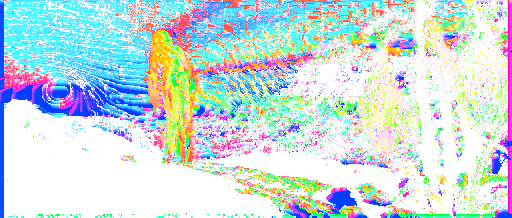
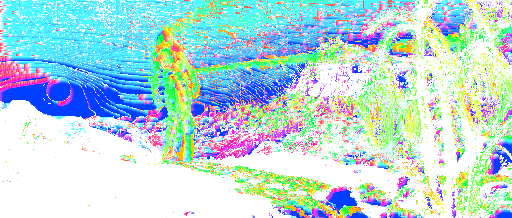
Better readme

diff --git a/README.md b/README.md
@@ -1,9 +1,15 @@
 # Tinybma
-An optical flowmap generator from motion vectors using block matching algorithms in c++
+*An optical flowmap generator from motion vectors using a Full Search Block Matching Algorithms (FSBMA) written in c++*
 
-Current implementation do not support sub pixel motions and is implemented using a Full Search Block Matching Algorithm (FSBMA).
+**Features:**
+- Motion compensation on the luma chanel **only** (input images are converted from full sRGB to YUV BT.601)
+- Two visualization mode for computed motion vectors:
+    - **HSV** mode where hue encodes orientation and value encodes normalized norm relative to the maximum displacement
+    - **UV** mode where the red and green channels encode horizontal and vertical displacement
+- Luma residue visualization
+- Parallel processing: Block search and pixels transforms use all available cpu cores
 
-> ℹ Blocks are processed in parallel on the CPU
+> ℹ Current implementation doesn't support subpixel motion.
 
 ## Build
 
@@ -14,22 +20,37 @@ cmake --build .
 
 ## Usage
 
-Show manual :
+Use `tinybma -h` to display program help.
+
+### Example
 ```bash
-tinybma -h
+tinybma ./example/sintel_source.png ./example/sintel_target.png ./example/flowmap_b4_m16.png -v -b 4 -m 16 -l -r -c hsv
 ```
 
-Example :
-```bash
-tinybma ./example/sintel_source.png ./example/sintel_target.png ./example/flowmap_b4_m16.png -v -b 4 -m 16
-```
+Which produces the following optical flowmap and residue based on two frames from The Blender open movie project [Sintel](https://durian.blender.org/):
 
-Which produces the following optical flowmap based on two frames from The Blender open movie project [Sintel](https://durian.blender.org/):
 <p align="center">
-
-<p align="center"><img src="./example/flowmap_b4_m16.png" width="50%" /><br>
-Optical flowmap of 4x4 blocks with a maximum search of 16 pixels</p>
-
-<p align="center"><img src="./example/sintel_source.png" width="50%" /><img src="./example/sintel_target.png" width="50%" /><br>Source frame on the left and target frame on the right</p>
-
+    <img src="./example/flowmap_b4_m16.png" width="50%" /><img src="./example/flowmap_b4_m16_residue.png" width="50%" />
+    1/4 optical flowmap with max axial movement of 16px (left) and its residual residual image (right)
 </p>
+
+<p align="center">
+    <img src="./example/flowmap_b4_m16_luma_ref.png" width="50%" /><img src="./example/flowmap_b4_m16_luma_target.png" width="50%" />
+    Luma reference frame (left) and luma target frame (right)
+</p>
+
+<p align="center">
+    <img src="./example/sintel_source.png" width="50%" /><img src="./example/sintel_target.png" width="50%" />
+    Original reference frame (left) and original target frame (right)
+</p>
+
+
+### Available colormaps
+
+||HSV map | UV map|
+|-------|------|-----------------------------------------------------------------------------------------------------------------------|
+|Option | `--colormap hsv` or `-c hsv`      | `--colormap uv` or `-c uv`             |
+|Result| <img src="./example/flowmap_b4_m16.png" width="100%" /> | <img src="./example/flowmap_b4_m16_uv.png" width="100%" />  |
+
+
+
